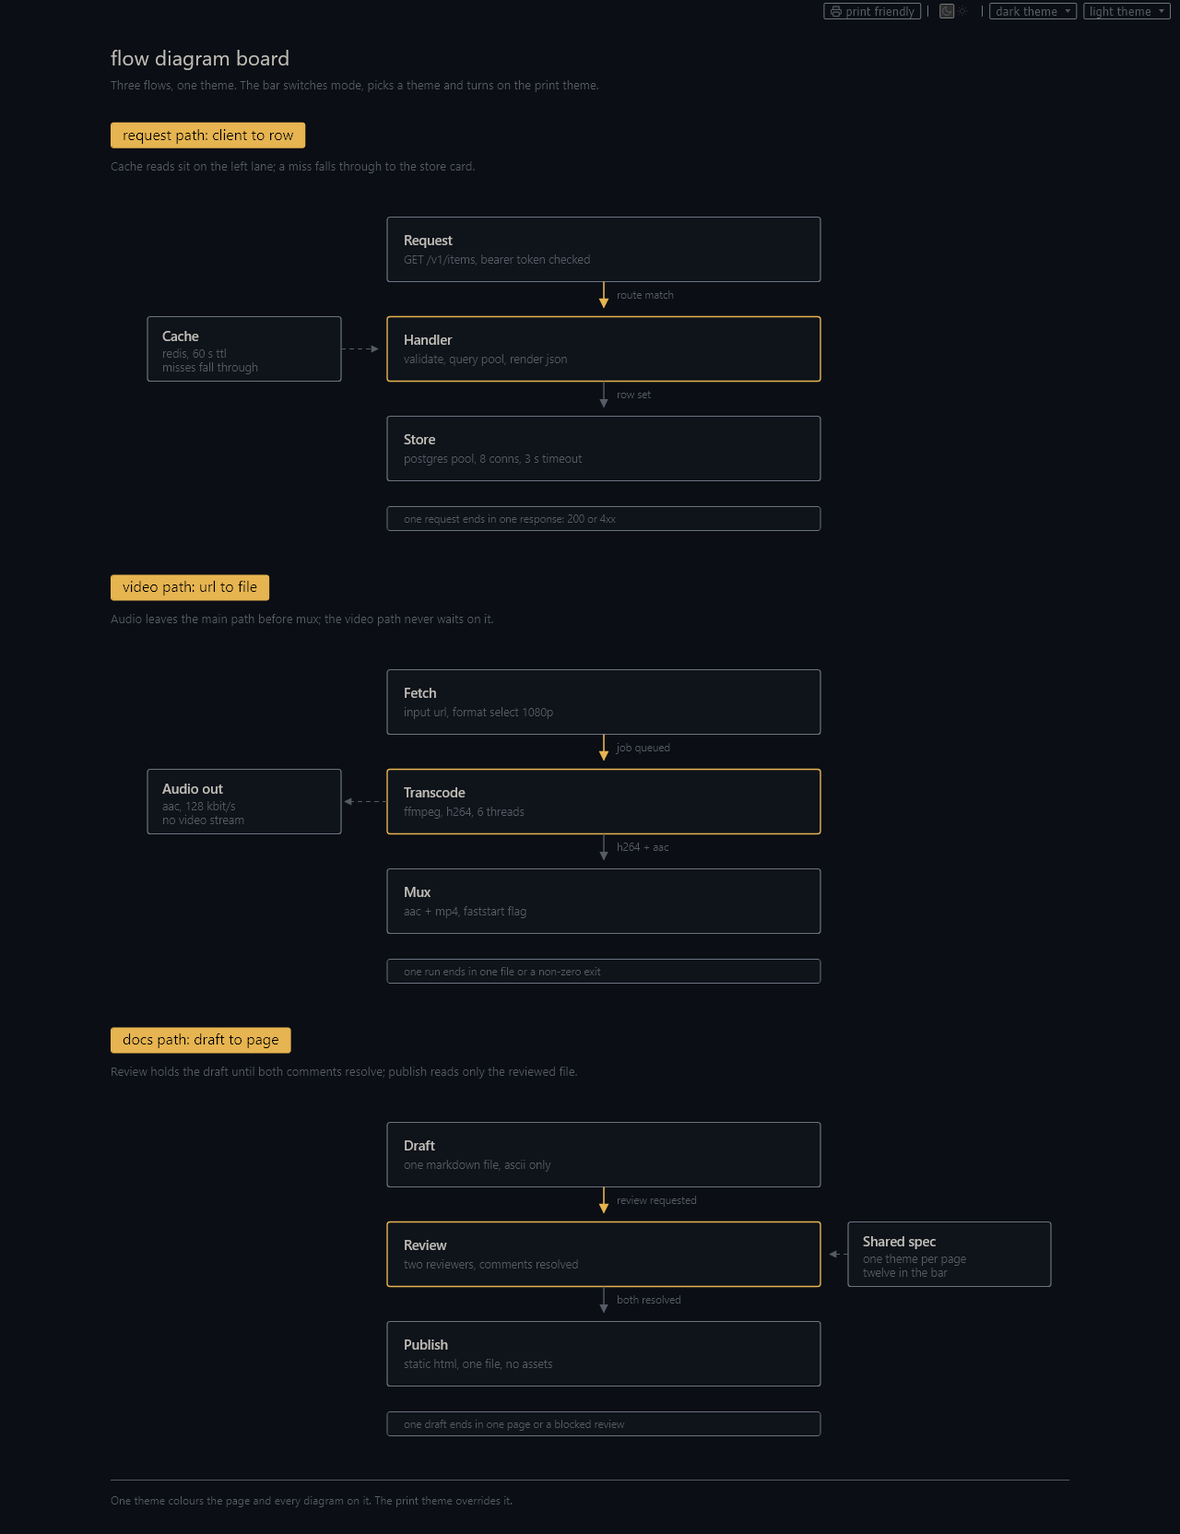
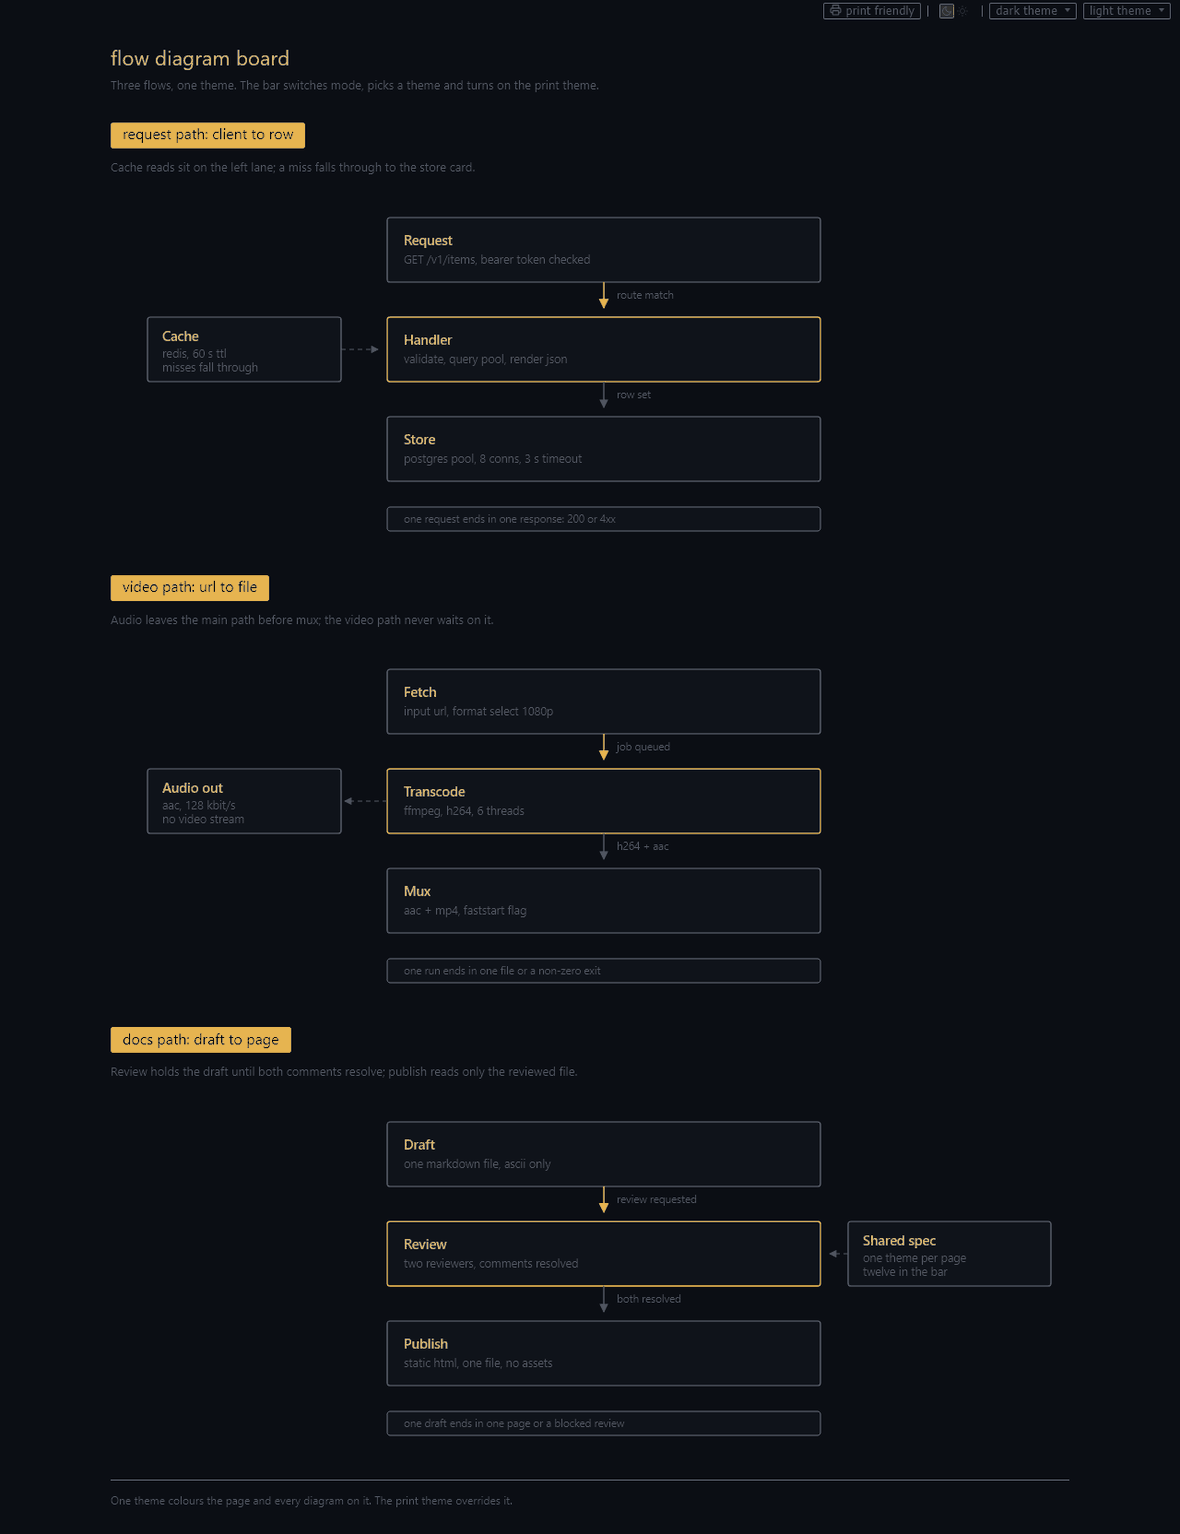
Raise bar labels and restore the dark switch thumb
* text sits one pixel higher in every bar button

* theme tokens reset the switch thumb, so print off returns to the mode colours

diff --git a/agent-skill/demo.html b/agent-skill/demo.html
@@ -94,7 +94,7 @@
   .s { width: 1px; height: 12px; background: var(--tb-line); }
   .tb-btn {
     display: inline-flex; align-items: center; justify-content: center; gap: 4px;
-    height: 18px; padding: 0 6px 2px; cursor: pointer;
+    height: 18px; padding: 0 6px 3px; cursor: pointer;
     color: inherit; background: transparent;
     border: 1px solid var(--tb-line); border-radius: 2px;
     white-space: nowrap;
@@ -390,7 +390,9 @@
         '--page-bg': t.bg, '--page-ink': t.ink, '--page-muted': t.muted, '--page-line': t.line,
         '--card': t.card, '--ink': t.ink, '--muted': t.muted, '--line': t.line,
         '--accent': t.accent, '--pill-ink': root.getAttribute('data-theme') === 'light' ? '#FFFFFF' : inkOn(t.accent),
-        '--tb-ink': t.muted, '--tb-line': t.line
+        '--tb-ink': t.muted, '--tb-line': t.line,
+        '--thumb': mode === 'dark' ? '#2E2E2E' : '#CBCBCB',
+        '--thumb-line': mode === 'dark' ? '#777777' : '#888888'
       };
       for (var k in vars) root.style.setProperty(k, vars[k]);
     }

diff --git a/agent-skill/template.html b/agent-skill/template.html
@@ -94,7 +94,7 @@
   .s { width: 1px; height: 12px; background: var(--tb-line); }
   .tb-btn {
     display: inline-flex; align-items: center; justify-content: center; gap: 4px;
-    height: 18px; padding: 0 6px 2px; cursor: pointer;
+    height: 18px; padding: 0 6px 3px; cursor: pointer;
     color: inherit; background: transparent;
     border: 1px solid var(--tb-line); border-radius: 2px;
     white-space: nowrap;
@@ -261,7 +261,9 @@
         '--page-bg': t.bg, '--page-ink': t.ink, '--page-muted': t.muted, '--page-line': t.line,
         '--card': t.card, '--ink': t.ink, '--muted': t.muted, '--line': t.line,
         '--accent': t.accent, '--pill-ink': root.getAttribute('data-theme') === 'light' ? '#FFFFFF' : inkOn(t.accent),
-        '--tb-ink': t.muted, '--tb-line': t.line
+        '--tb-ink': t.muted, '--tb-line': t.line,
+        '--thumb': mode === 'dark' ? '#2E2E2E' : '#CBCBCB',
+        '--thumb-line': mode === 'dark' ? '#777777' : '#888888'
       };
       for (var k in vars) root.style.setProperty(k, vars[k]);
     }

diff --git a/docs/index.html b/docs/index.html
@@ -94,7 +94,7 @@
   .s { width: 1px; height: 12px; background: var(--tb-line); }
   .tb-btn {
     display: inline-flex; align-items: center; justify-content: center; gap: 4px;
-    height: 18px; padding: 0 6px 2px; cursor: pointer;
+    height: 18px; padding: 0 6px 3px; cursor: pointer;
     color: inherit; background: transparent;
     border: 1px solid var(--tb-line); border-radius: 2px;
     white-space: nowrap;
@@ -390,7 +390,9 @@
         '--page-bg': t.bg, '--page-ink': t.ink, '--page-muted': t.muted, '--page-line': t.line,
         '--card': t.card, '--ink': t.ink, '--muted': t.muted, '--line': t.line,
         '--accent': t.accent, '--pill-ink': root.getAttribute('data-theme') === 'light' ? '#FFFFFF' : inkOn(t.accent),
-        '--tb-ink': t.muted, '--tb-line': t.line
+        '--tb-ink': t.muted, '--tb-line': t.line,
+        '--thumb': mode === 'dark' ? '#2E2E2E' : '#CBCBCB',
+        '--thumb-line': mode === 'dark' ? '#777777' : '#888888'
       };
       for (var k in vars) root.style.setProperty(k, vars[k]);
     }

diff --git a/tools/harness.js b/tools/harness.js
@@ -145,6 +145,8 @@ ok(c.root.style.props['--muted'] === '#333333', 'print muted token');
 c.print.click();
 ok(c.root.getAttribute('data-print') === 'off', 'print off');
 ok(c.bg() === '#0D1117', 'print off restores github');
+ok(c.root.style.props['--thumb'] === '#2E2E2E', 'print off restores dark thumb');
+ok(c.root.style.props['--thumb-line'] === '#777777', 'print off restores dark thumb line');
 ok(c.print.getAttribute('aria-pressed') === 'false', 'print aria off');
 
 c.darkBtn.click();

diff --git a/tools/check.py b/tools/check.py
@@ -213,8 +213,8 @@ for fn in ("function applyTheme", "function applyPrint", "function buildMenu",
     check(fn in script, "bar script has " + fn[9:])
 check("--pill-ink" in script and "inkOn(t.accent)" in script, "pill ink derived")
 check("=== 'light' ? '#FFFFFF'" in script, "light pill ink white")
-check("'--thumb': '#CBCBCB'" in script and "'--thumb-line': '#888888'" in script,
-      "print resets switch thumb")
+check("'--thumb': mode === 'dark' ? '#2E2E2E' : '#CBCBCB'" in script,
+      "theme sets switch thumb per mode")
 check("menuitemradio" in script, "menu rows are menuitemradio")
 check("prefers-color-scheme" in scripts[0] and "prefers-color-scheme" in script, "os preference read")
 check("if (!manual)" in script, "os follow until manual")
